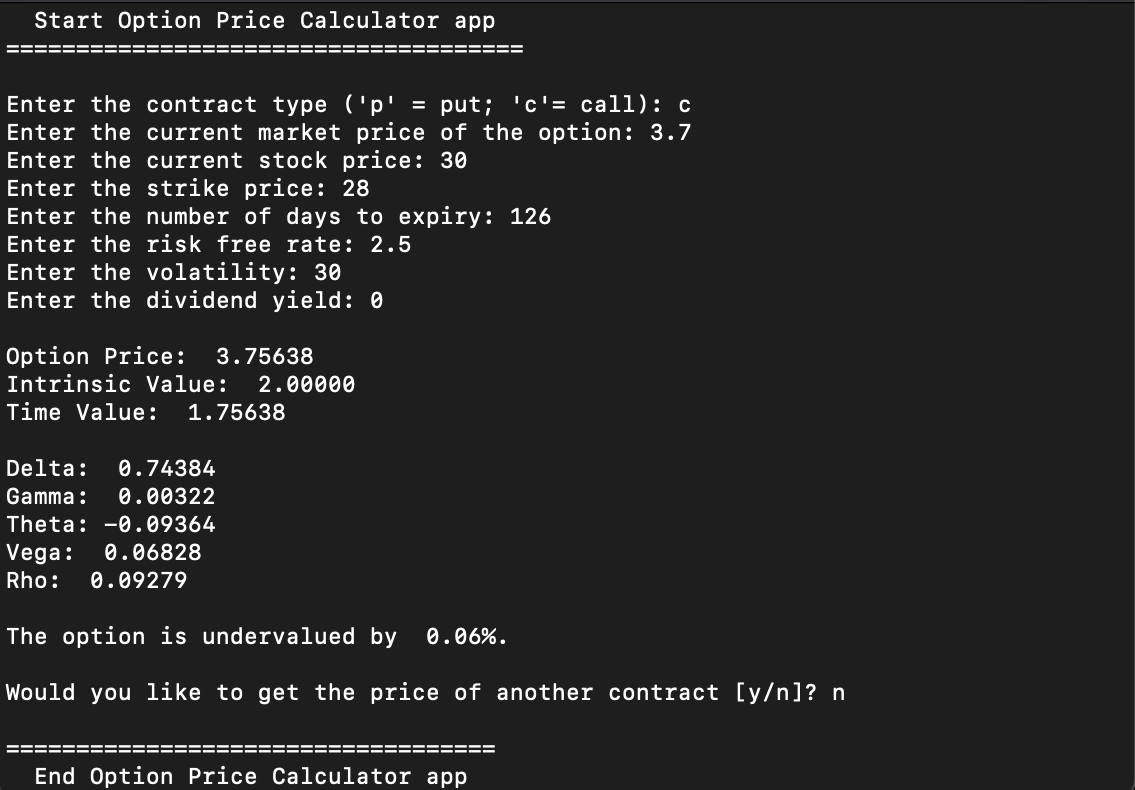
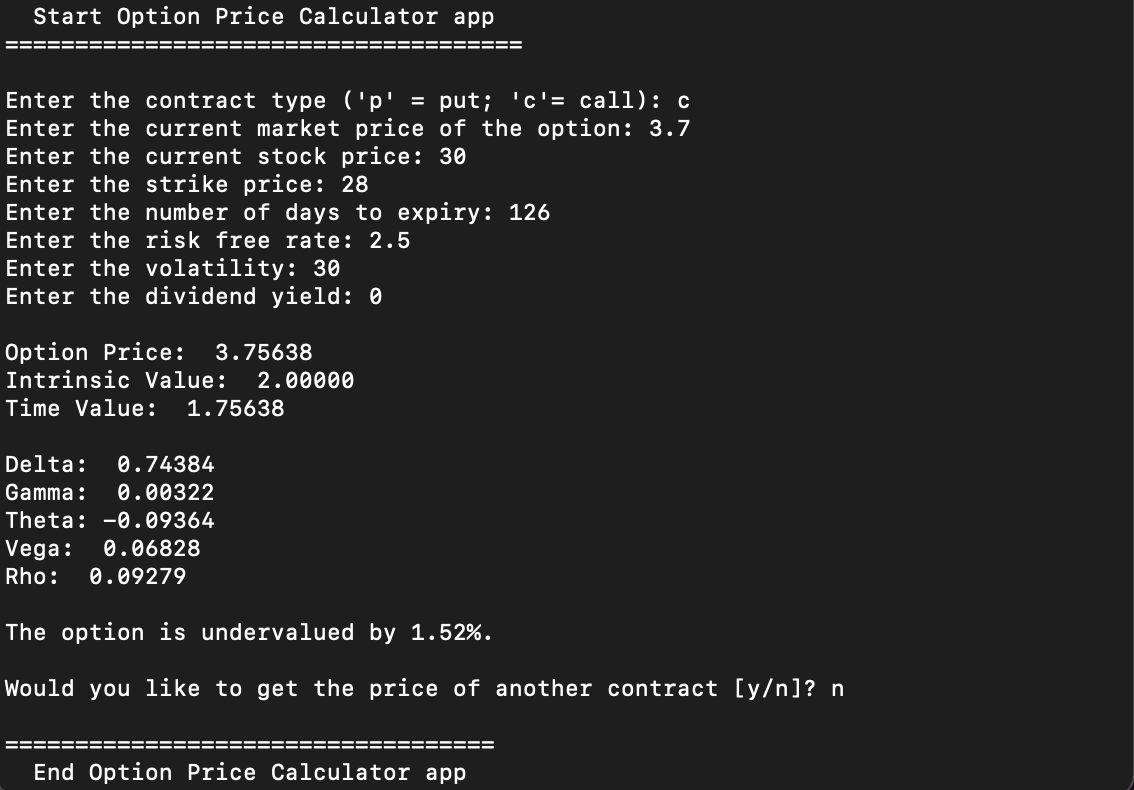
Update main.py and change sample outputs images

diff --git a/main.py b/main.py
@@ -31,16 +31,16 @@ def main():
         formatted_output(price)
 
         # Calculate the price difference between observed price and theoritical price
-        price_diff = (price['value']['Option Price'] - option.market_price) / 100
+        price_diff = (price['value']['Option Price'] - option.market_price) / option.market_price
 
         if price_diff > 0:
-            print(f'The option is undervalued by {price_diff: .2%}.')
+            print(f'The option is undervalued by {price_diff:.2%}.')
 
         elif(price_diff == 0):
             print(f'The option is fairly valued.')
 
         else:
-            print(f'The option is overvalued by {price_diff: .2%}.')
+            print(f'The option is overvalued by {price_diff:.2%}.')
 
         loop = pyip.inputChoice(['y', 'n'], prompt="\nWould you like to get the price of another contract [y/n]? ", default='n')
 
